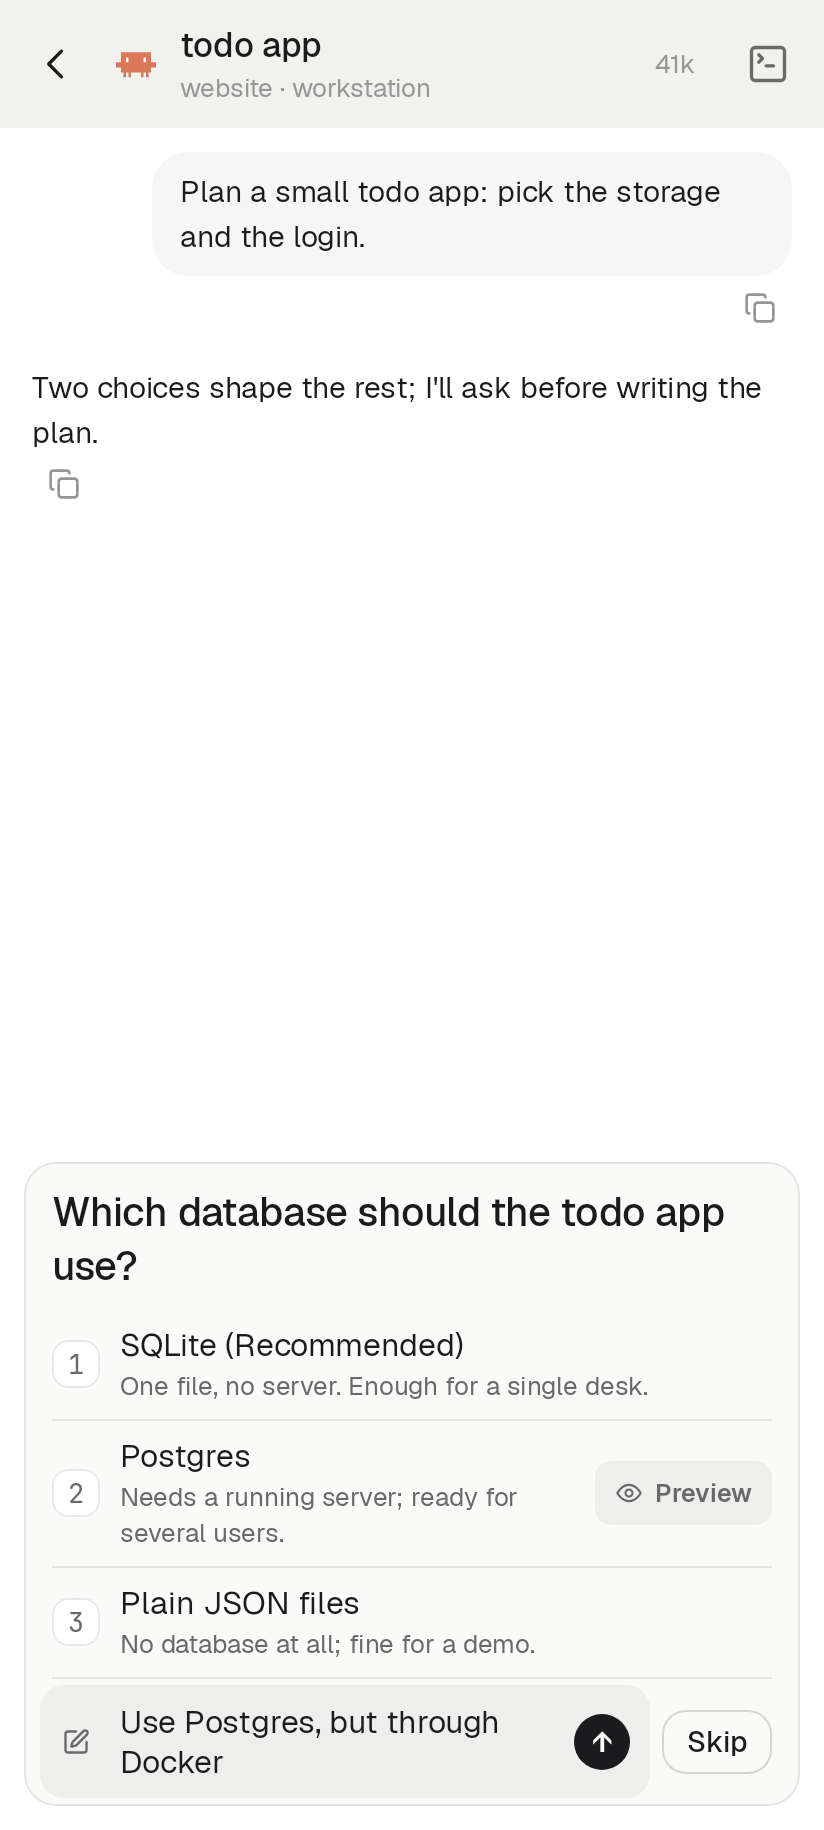
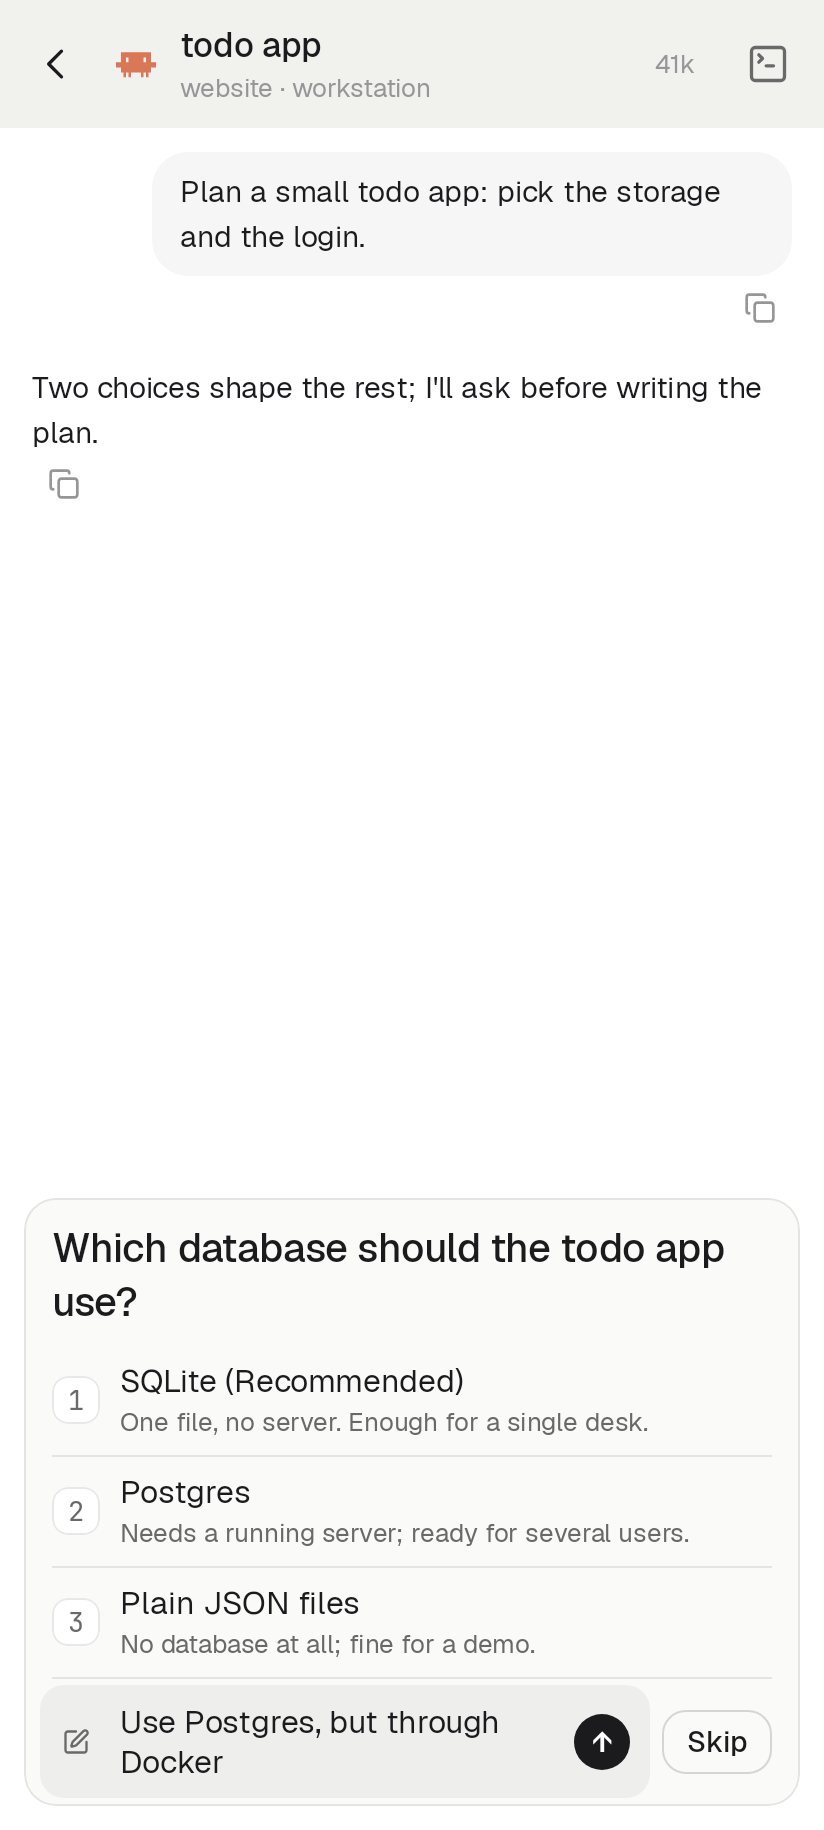
docs(design): drop Something else from the preview card renders

Changed region(s): [[0.0607, 0.6541, 0.8799, 0.841], [0.7282, 0.8098, 0.9102, 0.841], [0.091, 0.7475, 0.1214, 0.7787]]

diff --git a/design-brief.md b/design-brief.md
@@ -98,7 +98,7 @@ in v1.1.
 | `spaces-dark`, `spaces-light` | The Spaces view (spaces-navigation; awaiting sign-off, task 4.2): the home switch with the Agents count, two machines, a space with a needs-you card, a tab of three panes and a placeholder, "Not in a space", an unreachable machine's rows marked "as of" |
 | `terminal-map` | The quieter title bar (awaiting sign-off, task 4.2), graphite and paper: the tab map, the gauge as today ("47%", "283k"), the view switch as an icon, the menu button and its open menu with "Changes"; at 412 dp and 130% font, and at 360 dp and 2x with the gauge hidden and the map kept; the three proposed icons |
 | `tab-overview` | The tab overview (awaiting sign-off, task 4.2): the space's tabs as maps, the chosen tab's tiles with a "Desk only" placeholder, and the row fallback for six panes side by side |
-| `question-card-paper`, `question-card-graphite` | A question from the agent in the chat (chat-questions, signed off 2026-11-25): one raised panel with flat option rows, numbers in keycaps, a Preview pill, Something else and Skip in the footer; the message box hidden while the card waits |
+| `question-card-paper`, `question-card-graphite` | A question from the agent in the chat (chat-questions, signed off 2026-11-25): one raised panel with flat option rows, numbers in keycaps, a Preview pill and Skip in the footer (no Something else on a question with previews, owner 2026-11-25); the message box hidden while the card waits |
 | `question-multi-typed-paper`, `question-multi-typed-graphite` | Multi-select: tick boxes, a typed answer shown as a ticked row, "3 selected", Skip and the one send arrow |
 | `question-other-paper` | The Something else field open on a single-choice card, with its own send |
 | `question-large-text-paper` | The card at a large font scale |
